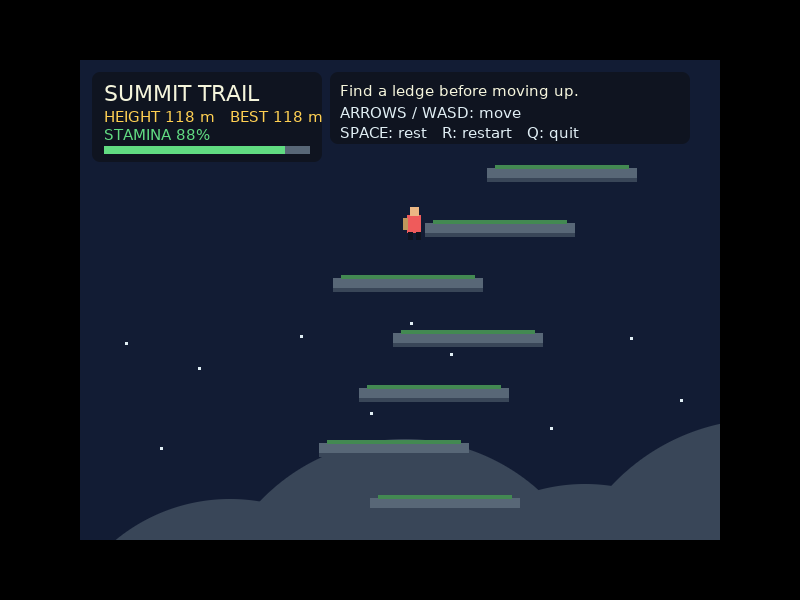
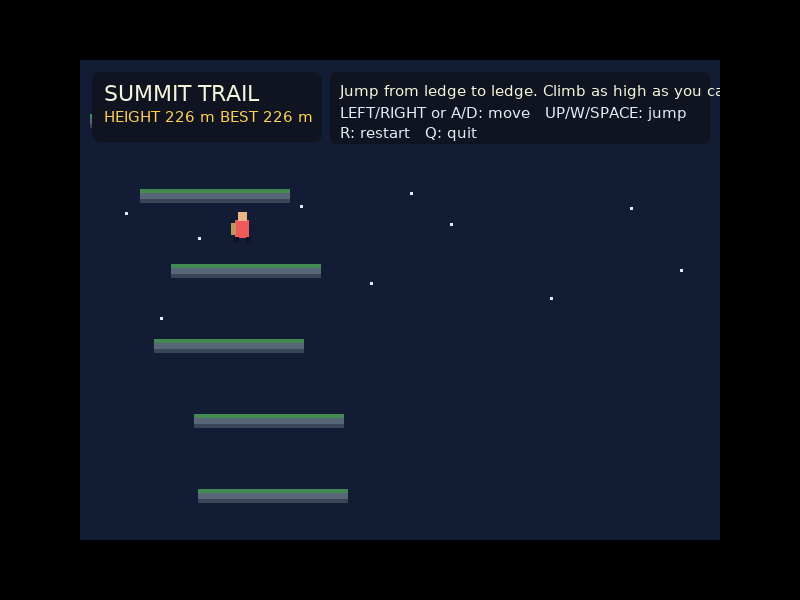
Real jumping: gravity, jump from ledge to ledge, game over on falling

diff --git a/README.md b/README.md
@@ -1,6 +1,6 @@
 # Summit Trail — Ak hiking game
 
-A small 2D, retro/pixel-style climbing game written in **Ak**. The mountain never ends: climb ledge to ledge, manage stamina, rest when needed, and see how high you can get. Your height and best height are shown in the HUD.
+A small 2D, retro/pixel-style climbing game written in **Ak**. The mountain never ends: jump from ledge to ledge and see how high you can get. Your height and best height are shown in the HUD.
 
 ![Start](docs/start.png)
 ![Climbing](docs/climbing.png)
@@ -18,10 +18,12 @@ ak game.aklang
 
 ## Controls
 
-- **Arrow keys** or **WASD** — move
-- **Space** — rest and recover stamina
-- **R** — restart
-- **Q** or **Esc** — quit
+- **Left / Right** or **A / D**: move
+- **Up**, **W** or **Space**: jump (hold it to keep hopping)
+- **R**: restart (after falling off the bottom of the screen)
+- **Q** or **Esc**: quit
+
+Jump from ledge to ledge. Fall below the screen and it's game over; your goal is the highest climb.
 
 ## Notes
 
